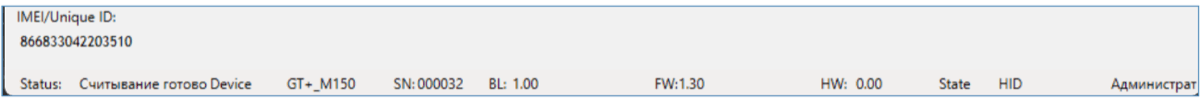
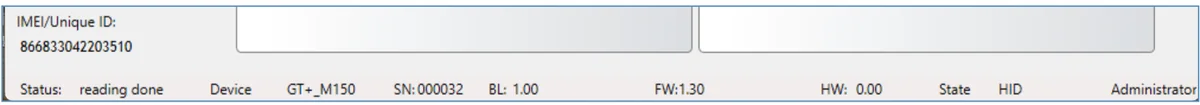
Replace five EN images with Igoris's corrected versions
From Igoris (documentation), by email 2026-09-29:
- GT Paradox SP/SP+/MG/MG+ diagram: Russian 'Шина клавиатуры' label now
  'Keypad bus' (wiring unchanged).
- G16 keyswitch-zone diagram: zones now 1-st Area to I/O 1, 2-nd to I/O 2,
  3-d to I/O 3 (was drawn reversed); alt text updated to match.
- GT+ status bar, Restore window and SMS & Call Reporting screenshots: now
  in English.
PNG sources converted to WebP (max 1200 px wide, quality 85).

Changed region(s): [[0.0, 0.0294, 1.0, 1.0], [0.0, 0.3235, 0.1233, 0.5]]

diff --git a/docs/en/alarm-communicators/cellular/g16/index.md b/docs/en/alarm-communicators/cellular/g16/index.md
@@ -371,7 +371,7 @@ Follow this schematic if the control panel will be armed/disarmed with a G16 PGM
     configured with the settings described in chapter 5.2 "Additional
     settings to arm/disarm the system using the control panel's keyswitch
     zone".
-<img alt="Wiring diagram: control panel to G16, arming through the keyswitch zones. Keypad bus or serial: RED (+12V) to +DC, BLK to -DC, YEL to CLK, GRN to DATA. Zones (keyswitch): 3-d Area to I/O 1, 2-nd Area to I/O 2, 1-st Area to I/O 3. G16 COM, A 485, B 485 not connected." src="./image22.webp" style="width:3.716674321959755in;height:2.30667104111986in" />
+<img alt="Wiring diagram: control panel to G16, arming through the keyswitch zones. Keypad bus or serial: RED (+12V) to +DC, BLK to -DC, YEL to CLK, GRN to DATA. Zones (keyswitch): 1-st Area to I/O 1, 2-nd Area to I/O 2, 3-d Area to I/O 3. G16 COM, A 485, B 485 not connected." src="./image22.webp" style="width:3.716674321959755in;height:2.30667104111986in" />
 
 ### Schematics for input connection 
 

diff --git a/docs/en/alarm-communicators/cellular/gt-plus/index.md b/docs/en/alarm-communicators/cellular/gt-plus/index.md
@@ -728,7 +728,7 @@ You can restrict the phone numbers from which the communicator will accept the c
 
 After connecting the GT+ and clicking **Read [F4], *TrikdisConfig*** will provide information about the connected device in the status bar:
 
-<img alt="TrikdisConfig status bar after reading the device: IMEI/Unique ID, Status, Device (GT+_M150), SN, BL, FW, HW, State and access level fields, explained in the table below." src="./image43.webp" style="width:7.086614173228346in;height:0.6062992125984252in" />
+<img alt="TrikdisConfig status bar after reading the device: IMEI/Unique ID, Status (reading done), Device (GT+_M150), SN, BL, FW, HW, State and access level (Administrator), explained in the table below." src="./image43.webp" style="width:7.086614173228346in;height:0.6062992125984252in" />
 
 | Object | Description |
 |--------|-------------|
